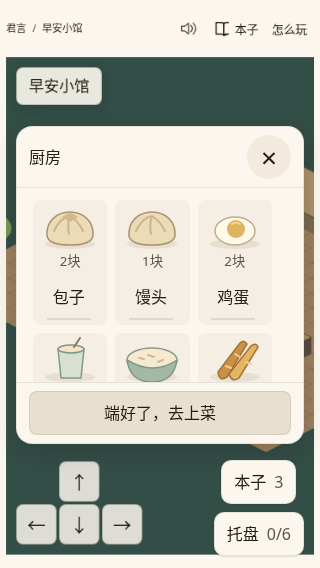
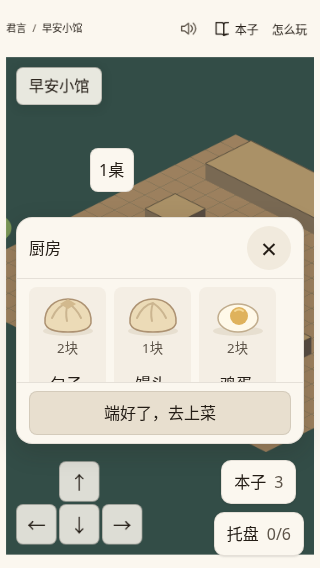
fix(world): preserve tray word lookup in compact contextual controls

diff --git a/src/world/ui/ContextualInteraction.tsx b/src/world/ui/ContextualInteraction.tsx
@@ -14,11 +14,12 @@ export type InteractionTarget =
   | { kind: "garden"; plantId: string | null }
   | { kind: "apartment"; itemId: string | null };
 export type DialogueProps = Pick<FeatureViewProps<unknown, unknown>, "onLookup" | "onPlay" | "recoveredWordIds" | "freshWordIds">;
+export type InteractionDialogue = { line: Line; speaker?: ReactNode };
 export type InteractionAction = { id: string; control: ReactNode };
 export type ContextualInteractionProps = DialogueProps & {
   target: InteractionTarget;
   title: ReactNode;
-  dialogue?: readonly { line: Line; speaker?: ReactNode }[];
+  dialogue?: { current: InteractionDialogue; history?: readonly InteractionDialogue[] };
   actions?: readonly InteractionAction[];
   children?: ReactNode;
   onClose: () => void;
@@ -26,7 +27,7 @@ export type ContextualInteractionProps = DialogueProps & {
   suspended?: boolean;
 };
 
-export function ContextualInteraction({ target, title, dialogue = [], actions = [], children, onClose, returnFocusTo, suspended = false, ...words }: ContextualInteractionProps) {
+export function ContextualInteraction({ target, title, dialogue, actions = [], children, onClose, returnFocusTo, suspended = false, ...words }: ContextualInteractionProps) {
   const titleId = useId();
   const closeButton = useRef<HTMLButtonElement>(null);
   const invokingElement = useRef(returnFocusTo ?? (typeof document === "undefined" ? null : document.activeElement));
@@ -44,10 +45,17 @@ export function ContextualInteraction({ target, title, dialogue = [], actions = 
         <button ref={closeButton} className="world-context-close" aria-label="继续走走" onClick={onClose}>×</button>
       </header>
       <div className="world-context-scroll" tabIndex={0} role="region" aria-labelledby={titleId}>
-        {dialogue.map(({ line, speaker }, index) => <div className="world-context-dialogue" key={`${line.id}-${index}`}>
-          {speaker && <p className="world-context-speaker">{speaker}</p>}
-          <FeatureLine line={line} {...words} />
-        </div>)}
+        {dialogue && <div className="world-context-dialogue">
+          {dialogue.current.speaker && <p className="world-context-speaker">{dialogue.current.speaker}</p>}
+          <FeatureLine line={dialogue.current.line} {...words} />
+        </div>}
+        {dialogue?.history && dialogue.history.length > 0 && <details className="world-dialogue-history">
+          <summary aria-label="再听一遍">···</summary>
+          {dialogue.history.map(({ line, speaker }, index) => <div className="world-context-dialogue" key={`${line.id}-${index}`}>
+            {speaker && <p className="world-context-speaker">{speaker}</p>}
+            <FeatureLine line={line} {...words} />
+          </div>)}
+        </details>}
         {children}
       </div>
       {actions.length > 0 && <footer className="world-context-actions">
@@ -57,11 +65,14 @@ export function ContextualInteraction({ target, title, dialogue = [], actions = 
   );
 }
 
-export function WorldPocketBar({ journalCount, trayCount, onJournal, onTray }: {
-  journalCount: number; trayCount: number; onJournal: () => void; onTray: () => void;
-}) {
+export type WorldPocketBarProps = {
+  journalControl: ReactNode;
+  trayControl: ReactNode;
+};
+
+export function WorldPocketBar({ journalControl, trayControl }: WorldPocketBarProps) {
   return <nav className="world-pocket-bar" aria-label="本子与托盘">
-    <button onClick={onJournal}>本子 <span>{journalCount}</span></button>
-    <button onClick={onTray}>托盘 <span>{trayCount}/6</span></button>
+    <div className="world-pocket-control">{journalControl}</div>
+    <div className="world-pocket-control">{trayControl}</div>
   </nav>;
 }

diff --git a/src/world/ui/harness.tsx b/src/world/ui/harness.tsx
@@ -27,18 +27,18 @@ function Harness() {
     <button className="harness-anchor" onClick={event => { setTrigger(event.currentTarget); setOpen(true); }}>1桌</button>
     <output className="harness-notice" data-notice>{notice}</output>
     {open && <ContextualInteraction target={kitchen ? { kind: "kitchen" } : { kind: "table", table: 1 }} suspended={lookup !== null} title={kitchen ? "厨房" : `1桌 · ${order.customer}`}
-      dialogue={kitchen ? [] : Array.from({ length: long ? 8 : 1 }, () => ({ line: order.line }))} {...words} onClose={() => setOpen(false)} returnFocusTo={trigger}
+      dialogue={kitchen ? undefined : { current: { line: order.line }, history: long ? Array.from({ length: 7 }, () => ({ line: order.line })) : [] }} {...words} onClose={() => setOpen(false)} returnFocusTo={trigger}
       actions={kitchen ? [{ id: "close", control: <button onClick={() => setOpen(false)}>端好了，去上菜</button> }] : [
         { id: "kitchen", control: <button onClick={() => setKitchen(true)}>去厨房</button> },
         { id: "pay", control: <button onClick={() => setNotice(`pay-${change}`)}>递上找零</button> },
       ]}>
-      {kitchen ? <KitchenControls foods={content.foods} tray={tray} pickupEnabled={tray.length < 6} onPickup={id => setTray([...tray, id])} onReturn={index => setTray(tray.filter((_, i) => i !== index))} {...words} /> :
+      {kitchen ? <KitchenControls foods={content.foods} tray={tray} pickupEnabled={tray.length < 6} trayHeading={<>托盘 {tray.length}/6</>} onPickup={id => setTray([...tray, id])} onReturn={index => setTray(tray.filter((_, i) => i !== index))} {...words} /> :
         <RestaurantTableControls phase="checkout" order={order} foods={content.foods} summary={<>共 4块 · 收到 {order.paid}块</>} changeLabel={<>找零 {change}块</>} resetControl={<button onClick={() => setChange(0)}>重来</button>} receiptSummary={null} thanks={null} change={change} onChange={setChange} {...words} />}
     </ContextualInteraction>}
     {lookup && <div className="word-popover" role="dialog" aria-label={`${lookup.word.hanzi}的意思`} onKeyDown={event => {
       if (event.key === "Escape") { event.stopPropagation(); setLookup(null); requestAnimationFrame(() => lookup.trigger.focus()); }
     }}><button autoFocus aria-label="关闭词卡" onClick={() => { setLookup(null); requestAnimationFrame(() => lookup.trigger.focus()); }}>×</button><h2>{lookup.word.hanzi}</h2><p>{lookup.word.pinyin}</p></div>}
-    <WorldPocketBar journalCount={3} trayCount={tray.length} onJournal={() => setNotice("journal")} onTray={() => { setKitchen(true); setOpen(true); }} />
+    <WorldPocketBar journalControl={<button onClick={() => setNotice("journal")}>本子 <span>3</span></button>} trayControl={<button onClick={() => { setKitchen(true); setOpen(true); }}>托盘 <span>{tray.length}/6</span></button>} />
   </main>;
 }
 

diff --git a/src/world/ui/contextual.css b/src/world/ui/contextual.css
@@ -6,7 +6,7 @@
   display: flex;
   flex-direction: column;
   width: min(480px, calc(100% - 32px));
-  max-height: min(56dvh, 520px);
+  max-height: min(40dvh, 400px);
   color: var(--text-primary);
   background: var(--surface-card);
   border: 1px solid var(--hairline);
@@ -19,7 +19,7 @@
 .world-context button, .world-pocket-bar button { min-width: 44px; min-height: 44px; touch-action: manipulation; }
 .world-context button:focus-visible, .world-context-scroll:focus-visible, .world-pocket-bar button:focus-visible { outline: 2px solid var(--text-primary); outline-offset: 2px; }
 .world-context-close { flex-shrink: 0; font-size: 28px; border: 0; background: var(--surface-control); border-radius: 50%; }
-.world-context-scroll { min-height: 0; overflow: auto; overscroll-behavior: contain; padding: 12px 16px; scrollbar-gutter: stable; }
+.world-context-scroll { min-height: 0; overflow: auto; overscroll-behavior: contain; padding: 8px 12px; scrollbar-gutter: stable; }
 .world-context-speaker { margin: 0 0 4px; color: var(--text-secondary); font: 500 14px/20px var(--font-sans); }
 .world-context .help-line { display: flex; align-items: start; gap: 8px; margin: 0; }
 .world-context .spoken { font: 500 28px/44px var(--font-serif); min-width: 0; flex: 1; }
@@ -44,10 +44,16 @@
 .world-kitchen-food svg { width: 64px; height: 48px; }
 .world-kitchen-food > .word { font-size: 16px; }
 .world-kitchen-food small { color: var(--text-secondary); }
-@media (min-width: 800px) { .world-context { max-height: min(65dvh, 600px); } }
+@media (min-width: 800px) { .world-context { max-height: min(40dvh, 400px); } }
 @media (max-height: 460px) { .world-context { bottom: max(64px, env(safe-area-inset-bottom)); max-height: 72dvh; } }
 @media (prefers-reduced-motion: reduce) { .world-context *, .world-pocket-bar * { animation: none; transition: none; } }
 @media (max-width: 360px) {
   .world-pocket-bar { flex-direction: column; }
-  .world-context { bottom: max(124px, calc(env(safe-area-inset-bottom) + 112px)); max-height: min(56dvh, calc(100dvh - 140px)); }
+  .world-context { bottom: max(124px, calc(env(safe-area-inset-bottom) + 112px)); max-height: min(40dvh, calc(100dvh - 140px)); }
 }
+
+.world-pocket-control { display: flex; align-items: center; gap: 4px; }
+.world-kitchen-tray-heading { margin: 8px 0; }
+.world-tray-item { display: inline-flex; align-items: center; gap: 4px; }
+
+.world-dialogue-history > summary { min-height: 44px; display: flex; align-items: center; width: 44px; justify-content: center; cursor: pointer; border-radius: var(--radius-tile); background: var(--surface-control); }

diff --git a/src/world/ui/RestaurantControls.tsx b/src/world/ui/RestaurantControls.tsx
@@ -41,11 +41,12 @@ export type KitchenControlsProps = Pick<DialogueProps, "onLookup"> & {
   foods: readonly Food[];
   tray: readonly string[];
   pickupEnabled: boolean;
+  trayHeading: ReactNode;
   onPickup: (foodId: string) => void;
   onReturn: (index: number) => void;
 };
 
-export function KitchenControls({ foods, tray, pickupEnabled, onPickup, onReturn, onLookup }: KitchenControlsProps) {
+export function KitchenControls({ foods, tray, pickupEnabled, trayHeading, onPickup, onReturn, onLookup }: KitchenControlsProps) {
   return <>
     <div className="world-kitchen-foods">
       {foods.map(food => <div className="world-kitchen-food" key={food.id}>
@@ -56,10 +57,13 @@ export function KitchenControls({ foods, tray, pickupEnabled, onPickup, onReturn
       </div>)}
     </div>
     <div className="world-kitchen-tray" role="group" aria-label="托盘">
-      <p>托盘 {tray.length}/6</p>
+      <div className="world-kitchen-tray-heading">{trayHeading}</div>
       <div className="world-context-options">{tray.map((id, index) => {
         const food = foods.find(food => food.id === id)!;
-        return <button key={`${id}-${index}`} aria-label={`放回${food.word.hanzi}`} onClick={() => onReturn(index)}>{food.word.hanzi} ×</button>;
+        return <div className="world-tray-item" key={`${id}-${index}`}>
+          <WordToken word={food.word} look="plain" onLookup={onLookup} />
+          <button aria-label={`放回${food.word.hanzi}`} onClick={() => onReturn(index)}>×</button>
+        </div>;
       })}</div>
     </div>
   </>;

diff --git a/src/world/ui/index.ts b/src/world/ui/index.ts
@@ -1,4 +1,4 @@
 export { ContextualInteraction, WorldPocketBar } from "./ContextualInteraction";
-export type { InteractionTarget, InteractionAction, ContextualInteractionProps, DialogueProps } from "./ContextualInteraction";
+export type { InteractionDialogue, WorldPocketBarProps, InteractionTarget, InteractionAction, ContextualInteractionProps, DialogueProps } from "./ContextualInteraction";
 export { RestaurantTableControls, KitchenControls } from "./RestaurantControls";
 export type { RestaurantTableControlsProps, KitchenControlsProps } from "./RestaurantControls";

diff --git a/docs/evidence/0090/README.md b/docs/evidence/0090/README.md
@@ -4,7 +4,7 @@ The full objective remains ACTIVE. The shell alone cannot prove a connected walk
 
 Run the harness with `node node_modules/vite/bin/vite.js --host 0.0.0.0 --port 5494 --strictPort`. Open `/src/world/ui/harness.html`. Run `node docs/evidence/0090/probe.mjs` from this worktree to reproduce the callback, scrolling, lookup Escape, inert-state, invoking-focus and tray checks. Registered content comes from the existing content module. The static backdrop is an existing runtime capture, so this harness does not establish movement, camera or domain-action integration.
 
-Both top and bottom placements were captured and inspected at 390×664 and 1440×900. Bottom placement preserves the location heading and the initiating table above the panel. The panel scrolls while its close and action rows remain visible. The persistent journal and tray buttons are separate from the panel. The top prototype covers the location heading and was rejected. Foundation must still verify the real player's position remains visible with its actual camera.
+The panel now caps at 40dvh in portrait and desktop. Short landscape retains a larger allowance to keep close and footer usable. Both top and bottom placements were captured and inspected at 390×664 and 1440×900. Bottom placement preserves the location heading and the initiating table above the panel. The panel scrolls while its close and action rows remain visible. The persistent journal and tray buttons are separate from the panel. The top prototype covers the location heading and was rejected. Foundation must still verify the real player's position remains visible with its actual camera.
 
 The first browser invocation failed because the package's bundled Chromium was absent. The probe uses installed `/usr/bin/chromium`. The first visual prototype exposed missing token CSS in the harness, which was corrected before these captures. No package or lockfile was changed.
 
@@ -12,10 +12,16 @@ The first browser invocation failed because the package's bundled Chromium was a
 
 Import from `src/world/ui/index.ts`. The shell imports only its local CSS and uses existing root tokens.
 
-- `ContextualInteraction` accepts `target`, `title`, `dialogue`, `actions`, `children`, `onClose`, `returnFocusTo`, `suspended`, `onLookup`, `onPlay`, `recoveredWordIds`, and `freshWordIds`. `target` derives from validated ActivityBinding. Each dialogue entry has a registered `line` and optional token-rendered `speaker`. Titles and speakers accept ReactNode. Each action is `{id, control}`. Supply a complete control with existing callbacks and caller-derived disabled state. The shell never wraps it in another button.
+- `ContextualInteraction` accepts `target`, `title`, `dialogue`, `actions`, `children`, `onClose`, `returnFocusTo`, `suspended`, `onLookup`, `onPlay`, `recoveredWordIds`, and `freshWordIds`. `target` derives from validated ActivityBinding. `dialogue` explicitly contains `current` and optional `history`; each entry has a registered `line` and optional token-rendered `speaker`. History opens through a native disclosure without removing token or replay controls. Titles and speakers accept ReactNode. Each action is `{id, control}`. Supply a complete control with existing callbacks and caller-derived disabled state. The shell never wraps it in another button.
 - Pass `suspended={wordOpen}` while the existing topmost word card is open. The shell becomes inert. Existing card code owns card Escape handling and token focus restoration. Contextual Escape closes the interaction only when its controls receive the event.
 - `RestaurantTableControls` accepts `phase`, `order`, `foods`, `change`, `onChange`, `onLookup`, and caller-rendered `summary`, `changeLabel`, `resetControl`, `receiptSummary`, `thanks`. Supply registered token content in these slots. Submit actions belong in the shell footer. The component does not validate payment or advance a phase.
-- `KitchenControls` accepts `foods`, `tray`, `pickupEnabled`, `onPickup`, `onReturn`, `onLookup`. The caller determines pickup legality. Food name lookup is a separate WordToken beside the pickup art, avoiding nested buttons and duplicate visible pickup names.
-- `WorldPocketBar` accepts journal/tray counts and explicit callbacks. Place beside the shell inside a positioned world wrapper. It opens nothing automatically.
+- `KitchenControls` accepts `foods`, `tray`, `trayHeading`, `pickupEnabled`, `onPickup`, `onReturn`, `onLookup`. The caller determines pickup legality. Food name lookup is a separate WordToken beside the pickup art and beside each icon-only tray return button. `trayHeading` accepts caller-rendered registered content.
+- `WorldPocketBar` accepts complete `journalControl` and `trayControl` ReactNodes, so the caller can render registered token labels beside activation controls without nested buttons. Place beside the shell inside a positioned world wrapper. It opens nothing automatically.
 
 No UI component persists feature state or dispatches domain actions. Existing reducers remain authoritative. Do not mount the full legacy service or feature page as shell children.
+
+## Existing label convention
+
+The design system explicitly specifies plain tabular amounts such as `2块` and `23 个词`. The legacy App uses plain `块` in money increments, pickup prices and receipt amounts. This patch preserves that accepted currency convention. Existing content registers `找零` but does not register `本子`, `托盘` or `块`. Pocket controls and tray heading are therefore caller-rendered slots; this component does not fabricate words or audio.
+
+The expanded probe verifies that the seven-entry stress history is initially collapsed, can be explicitly opened, and retains every registered line. It also verifies tray-word lookup and focus restoration before activating the separate return button.

diff --git a/docs/tickets/0090-contextual-world-ui.md b/docs/tickets/0090-contextual-world-ui.md
@@ -43,3 +43,9 @@ Browser evidence and exact integration reference live in `docs/evidence/0090/REA
 The current API supersedes the initial action-label contract. Actions are `{id, control: ReactNode}` and the shell does not create nested buttons. Pass `suspended={wordOpen}` for the topmost existing word card. Restaurant labels use required caller-rendered slots documented in the evidence reference. Callback, scrolling, focus return, word-card Escape, pickup and return probes passed with system Chromium. Type checking and all 308 tests in 26 files passed. `git diff --check` passed. No standalone harness completion is claimed.
 
 Next action remains foundation integration using the current exported props, followed by independent review of physical anchor selection, real Mandarin replay, token cards, camera/player visibility, tray/journal access and existing reducer actions in the complete game.
+
+### Follow-up requirement review
+
+The full objective and foundation integration remain ACTIVE. Current API supersedes prior ledger signatures. `dialogue` is now `{current, history?}` so current-line selection never depends on array order. Historical registered lines and replays remain accessible through native details. The panel caps at 40dvh in portrait and desktop, with a larger short-landscape allowance for close/footer reachability.
+
+`WorldPocketBar` now accepts complete `journalControl` and `trayControl` ReactNode slots. `KitchenControls` adds `trayHeading`. Every tray food is a real WordToken beside an icon-only return button. Currency keeps the accepted plain `块` convention documented in the design system and existing App. No new content or audio was invented. Source review used GitHub while the executor was unavailable; writes resumed only in the owned worktree after restoration.
